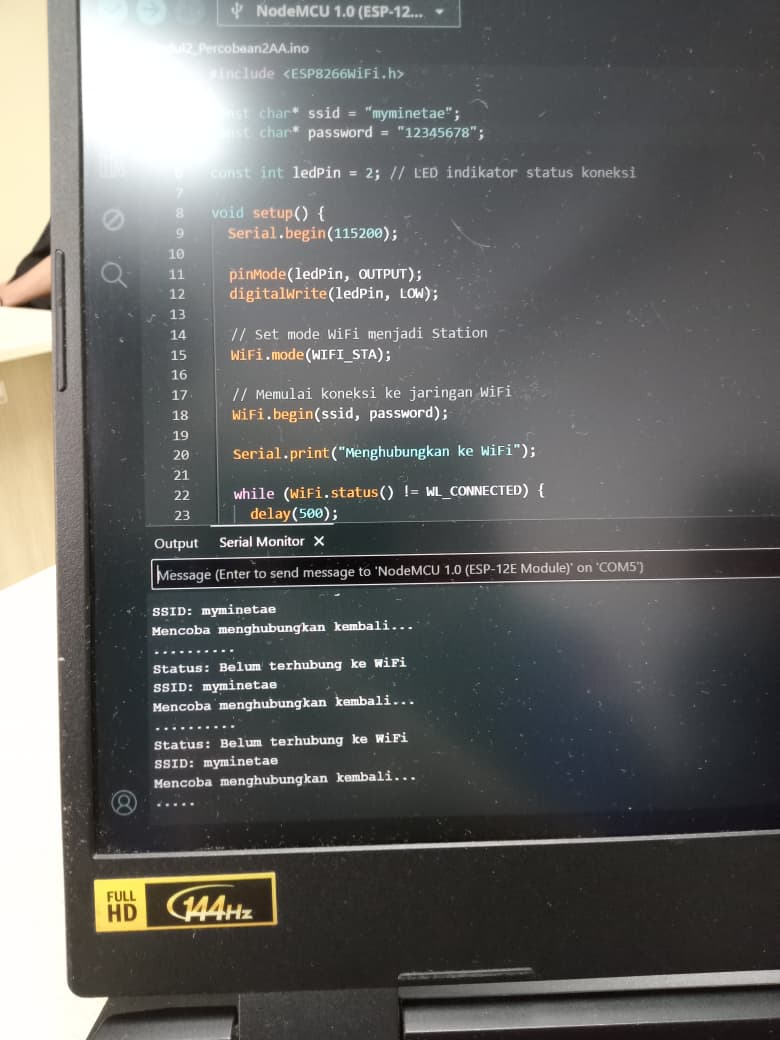
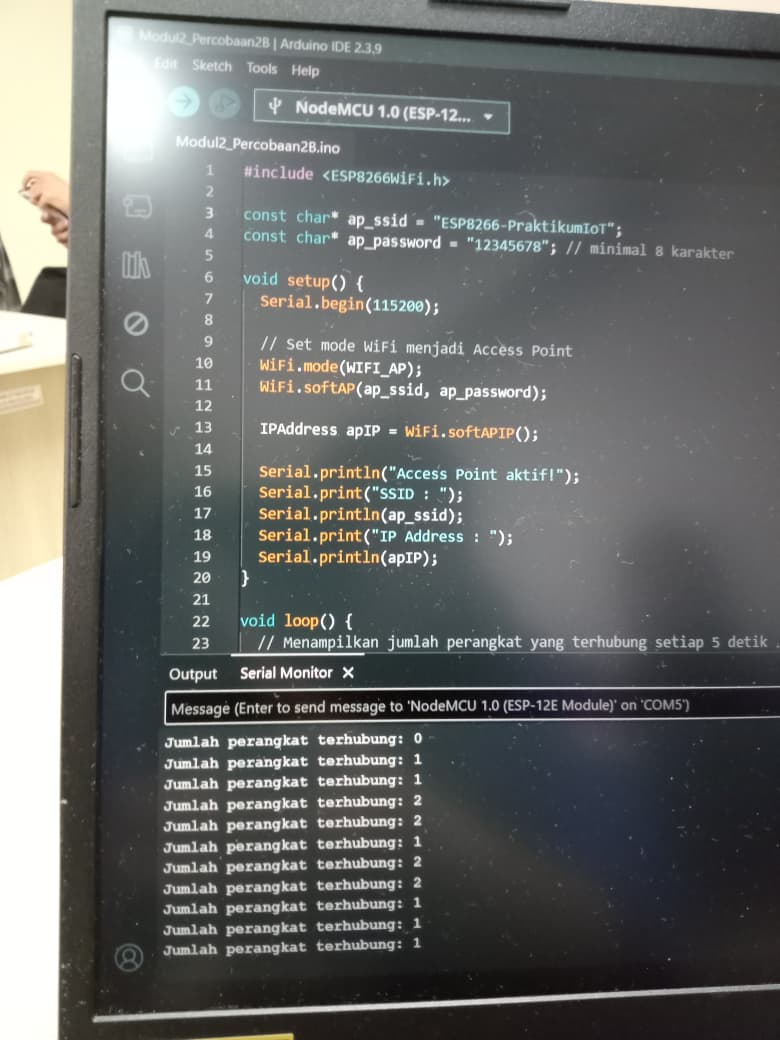
modul2

diff --git a/Pertemuan 2 - Konfigurasi Jaringan/README.md b/Pertemuan 2 - Konfigurasi Jaringan/README.md
@@ -237,11 +237,11 @@ ESP8266 cukup dihubungkan ke komputer melalui USB, kemudian smartphone atau lapt
 
 ### Percobaan 2A - LED Indikator
 
-![LED indikator menyala](images/dokumentasi-2a-led.jpg)
+![Serial Monitor koneksi berhasil](images/dokumentasi-2a-serial.jpg)
 
 LED menyala setelah ESP8266 berhasil terhubung ke jaringan WiFi.
 
-![Serial Monitor koneksi berhasil](images/dokumentasi-2a-serial.jpg)
+![Serial Monitor koneksi berhasil](images/dokumentasi-2b-serial.jpg)
 
 Serial Monitor menampilkan pesan koneksi berhasil, IP address `10.244.143.149`, MAC address `B4:E6:2D:3B:00:93`, dan RSSI.
 
